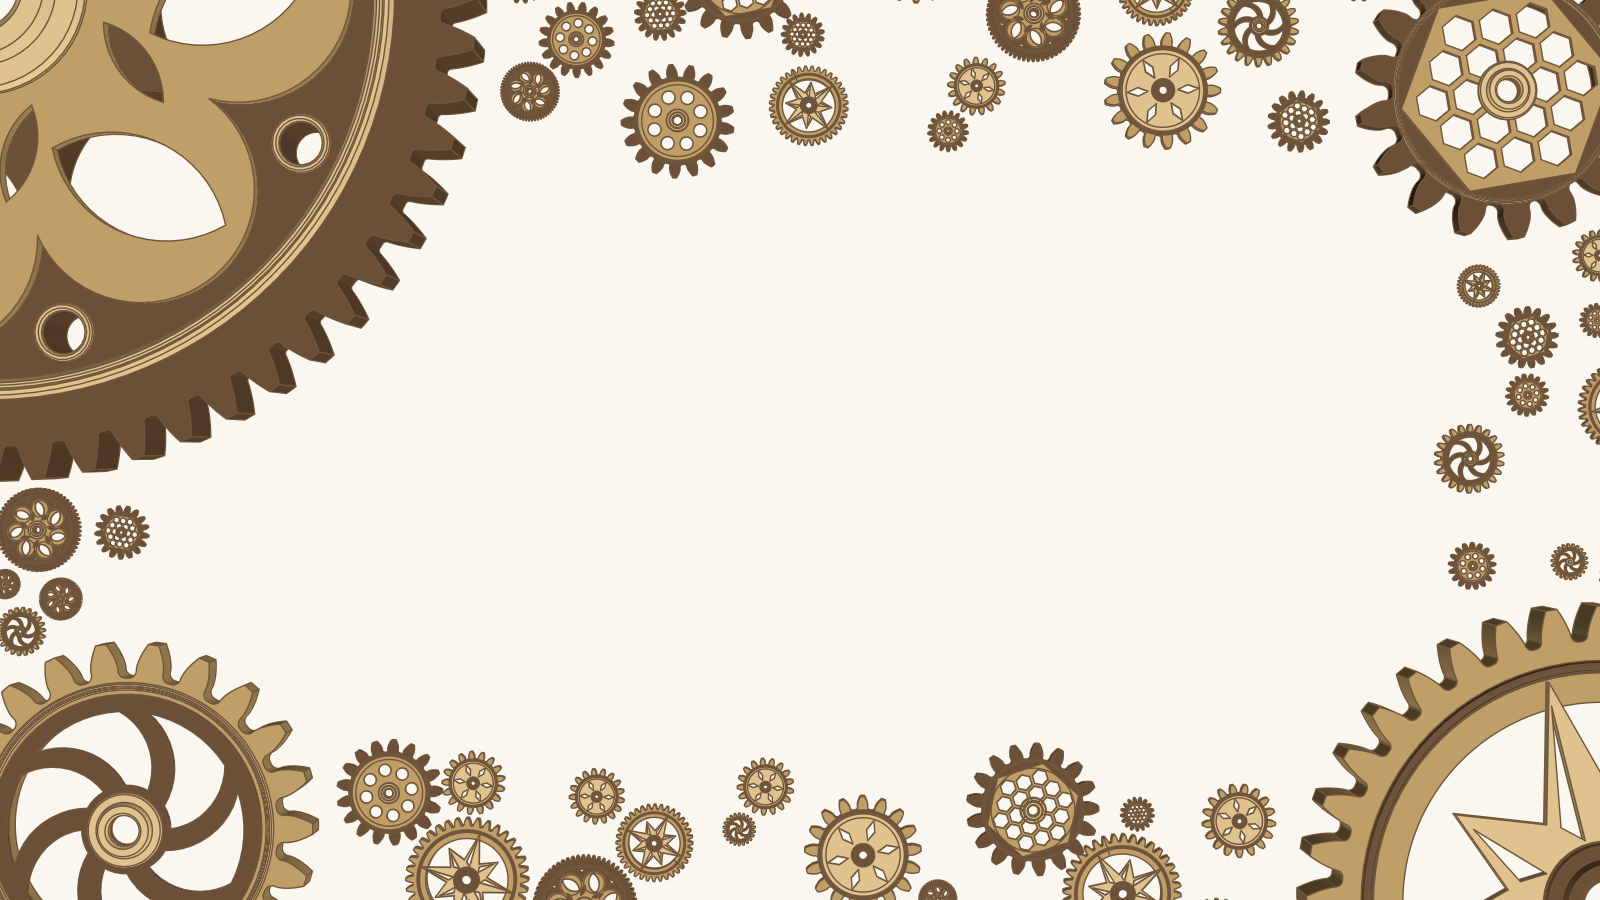
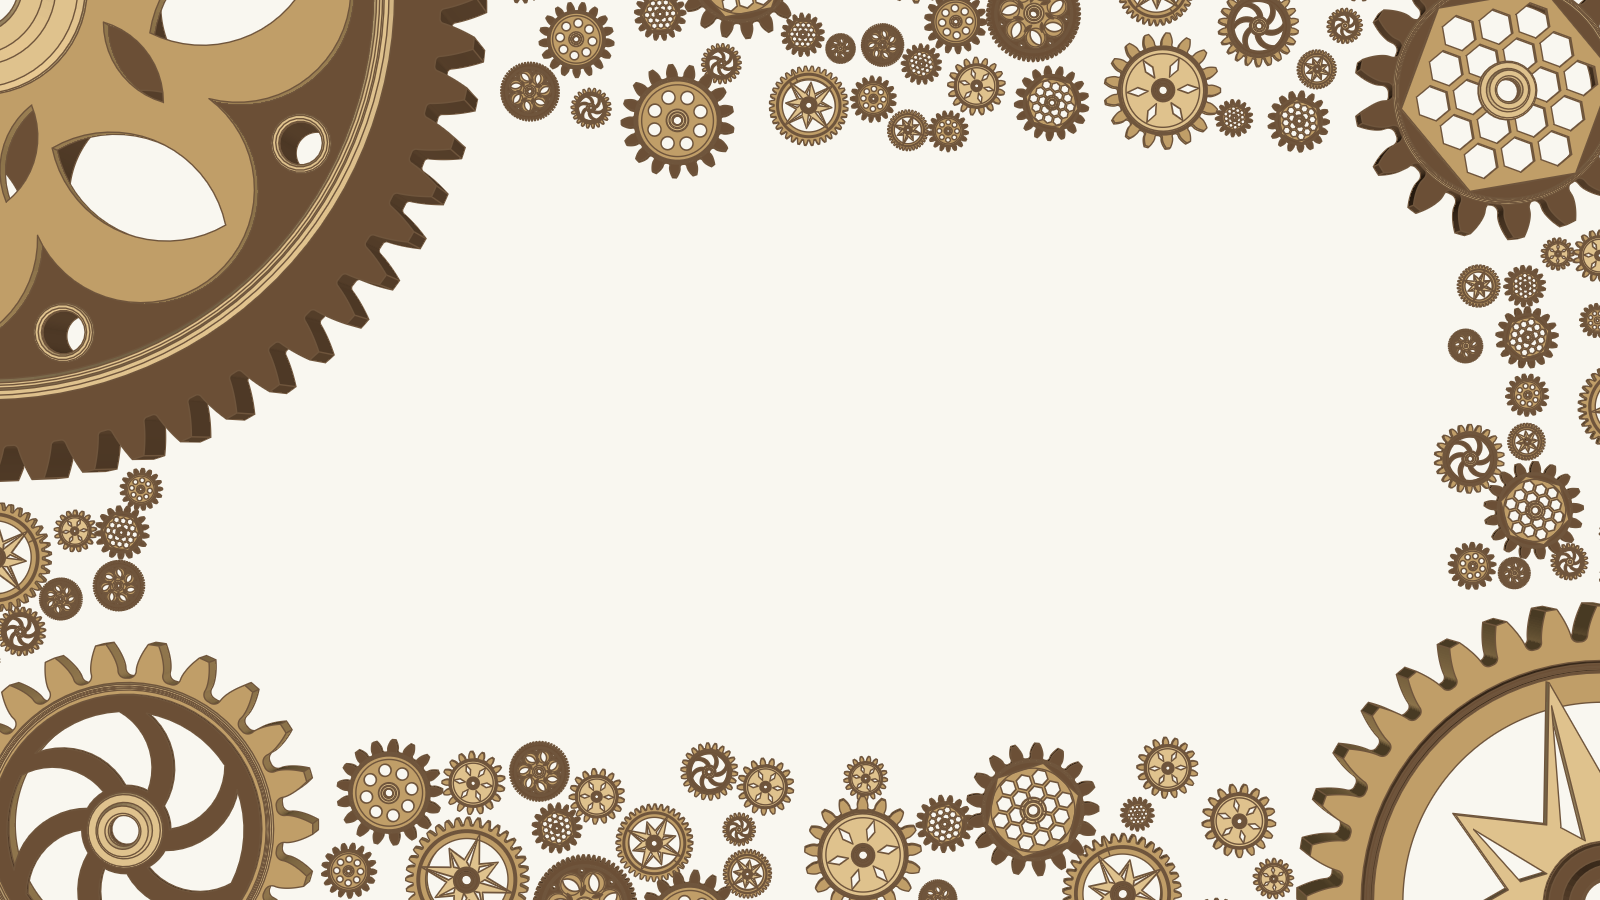
increase hero border gear density

diff --git a/tools/render/ornamental_gears.go b/tools/render/ornamental_gears.go
@@ -93,7 +93,7 @@ func borderGears(wheels []ornamentalWheel, templates [][]solidlens.Model) ([]sol
 	rng := rand.New(rand.NewSource(41))
 	var gears []borderGear
 	// Keep a seeded layout so regeneration produces the same image.
-	for attempts := 0; len(gears) < 55 && attempts < 5000; attempts++ {
+	for attempts := 0; len(gears) < 95 && attempts < 25000; attempts++ {
 		gear := borderGear{radius: 1.8 + 6.0*rng.Float64(), angle: 2 * math.Pi * rng.Float64(), style: rng.Intn(len(templates))}
 		switch rng.Intn(4) {
 		case 0:
@@ -113,7 +113,7 @@ func borderGears(wheels []ornamentalWheel, templates [][]solidlens.Model) ([]sol
 			}
 		}
 		for _, other := range gears {
-			if math.Hypot(gear.x-other.x, gear.y-other.y) < gear.radius+other.radius+1 {
+			if math.Hypot(gear.x-other.x, gear.y-other.y) < gear.radius+other.radius+.4 {
 				clear = false
 				break
 			}
